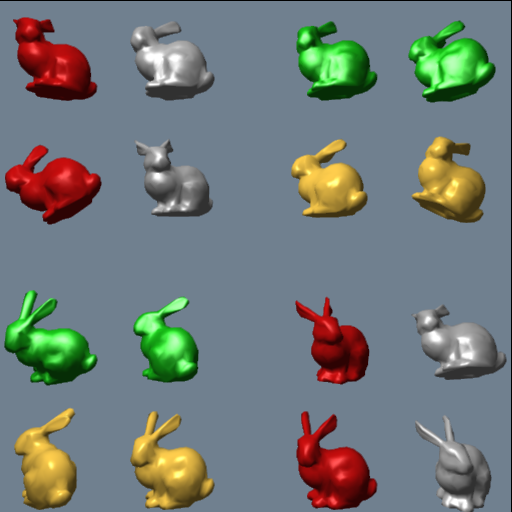
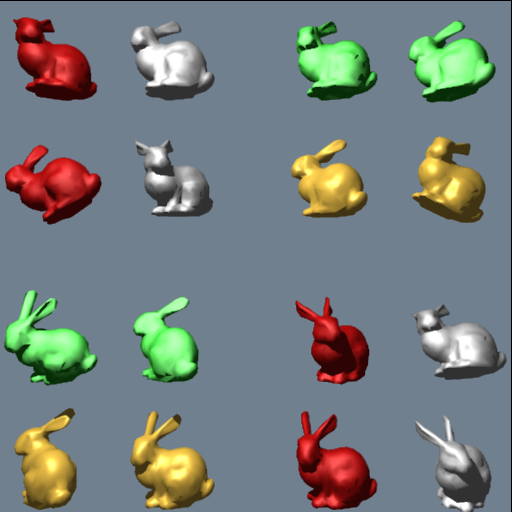
add hall model shading with shadows

diff --git a/src/render/shade.rs b/src/render/shade.rs
@@ -1,22 +1,70 @@
 
-use crate::math::{Vec3, normalize, dot};
+use std::sync::Arc;
+
+use crate::math::{Vec3, Ray, normalize, dot};
 use crate::objects::{Surfel, Material};
 use crate::lights::Light;
 
-use super::ColorRGB;
+use super::{ColorRGB, RayTracer};
 
-pub fn phong_shade(light: &dyn Light, eye: &Vec3, surfel: &Surfel, material: &Material) -> ColorRGB {
+#[allow(dead_code)]
+pub fn phong_shade(lights: &[Arc<dyn Light>], eye: &Vec3, surfel: &Surfel, material: &Material) -> ColorRGB {
+
+    let mut color = ColorRGB::black();
+
+    for light in lights.iter() {
+        let n = surfel.normal;
+        let l = normalize(light.direction_from(surfel.hit_point)); // from P to light
+        let v = normalize(*eye - surfel.hit_point);  // from P to viewer
+        let n_dot_l = dot(n, l).max(0.0_f32);
+        let r = normalize((2.0_f32 * n_dot_l * n) - l);
+        let r_dot_v = dot(r, v).max(0.0_f32);
+
+        let exp = r_dot_v.powf(material.shininess);
+        let il = light.intensity_at(l); // for spot lights
+        let diffuse = il * light.diffuse() * material.kd * material.diffuse * n_dot_l;
+        let specular = il * light.specular() * material.ks * material.specular * exp;
+
+        color += diffuse + specular;
+    }
+    color
+}
+
+pub fn hall_shade(lights: &[Arc<dyn Light>], eye: &Vec3, surfel: &Surfel, material: &Material, tracer: &RayTracer) -> ColorRGB {
+    let mut color = ColorRGB::black();
+
     let n = surfel.normal;
-    let l = normalize(light.direction_from(surfel.hit_point)); // from P to light
-    let v = normalize(*eye - surfel.hit_point);  // from P to viewer
-    let n_dot_l = dot(n, l).max(0.0_f32);
-    let r = normalize((2.0_f32 * n_dot_l * n) - l);
-    let r_dot_v = dot(r, v).max(0.0_f32);
+    let v = normalize(*eye - surfel.hit_point); // from P to viewer
 
-    let exp = r_dot_v.powf(material.shininess);
-    let il = light.intensity_at(l); // for spot lights
-    let diffuse = il * light.diffuse() * material.kd * material.diffuse * n_dot_l;
-    let specular = il * light.specular() * material.ks * material.specular * exp;
+    for light in lights.iter() {
+        let l = normalize(light.direction_from(surfel.hit_point)); // from P to light
+        let mut intensity = light.intensity_at(l); // for spot lights
 
-    diffuse + specular
+        if dot(n, l) > 0.0_f32 {
+            let ray = Ray{origin: surfel.hit_point, direction: l};
+            intensity = tracer.shadow(&ray, intensity);
+        }
+
+        if intensity == 0.0_f32 {
+            continue;
+        }
+        
+        let n_dot_l = dot(n, l).max(0.0_f32);
+        let h = normalize(l + v);
+        let n_dot_h = dot(n, h).max(0.0_f32);
+        let exp = n_dot_h.powf(material.shininess);
+
+        // diffuse reflection from light sources
+        // + kd * Ilj * Cd * cos(theta)
+        // todo texture mapping
+        let diffuse = intensity * light.diffuse() * material.kd * material.diffuse * n_dot_l;
+
+        // specular reflection from light sources
+        // + ks * Ilj * Cs * cos(phi)^n
+        let specular = intensity * light.specular() * material.ks * material.specular * exp;
+
+        color += diffuse + specular;
+    }
+
+    color
 }

diff --git a/src/render/tracer.rs b/src/render/tracer.rs
@@ -1,9 +1,8 @@
-use std::ops::Deref;
 use std::sync::Arc;
 use std::time::{Instant, Duration};
 
 use super::{ColorRGB, XYCoord};
-use super::shade::phong_shade;
+use super::shade::hall_shade;
 
 use crate::scene::{Camera, Scene};
 use crate::math::{Ray, Range};
@@ -123,13 +122,10 @@ impl RayTracer {
 
         match surfel {
             Some(surf) => {
-                let mut color = ColorRGB::black();
                 let material = self.scene.material_for_surfel(&surf);
                 let ambient = self.scene.ambient() * material.ka * material.ambient;
-
-                for light in self.scene.lights().iter() {
-                    color += phong_shade(light.deref(), &self.camera.eye, &surf, material);
-                }
+                //let mut color = phong_shade(self.scene.lights(), &self.camera.eye, &surf, material);
+                let mut color = hall_shade(self.scene.lights(), &self.camera.eye, &surf, material, self);
 
                 color += ambient;
                 color = color.clamp(0.0_f32, 1.0_f32);
@@ -138,5 +134,21 @@ impl RayTracer {
             None => { (self.scene.bgcolor(), false) }
         }
     }
+
+    /// Calculate light intensity due to shadowing
+    pub fn shadow(&self, ray: &Ray, light_intensity: f32) -> f32 {
+        let range = Range{min: 0.001_f32, max: f32::MAX};
+
+        for object in &self.objects {
+            // todo: transmissive materials
+            if object.intersect(ray, range).is_some() {
+                // todo: transmissive materials
+                return 0.0_f32;
+            } 
+        }
+
+        light_intensity
+    }
+
 }
 

diff --git a/README.md b/README.md
@@ -9,9 +9,10 @@ tracer I wrote many years ago in a grad school class where the curriculum was ba
 
 This ray tracer is exteremly basic right now but the following features are included:
 
-* Sphere and simple model rendering
+* Sphere, plane and simple model rendering
 * Bounding volume hiearchy based on axis aligned bounding boxes
-* Phong shading with point and spot light sources
+* Phong/Hall shading with point and spot light sources
+* Shadows
 * Adaptive super sampling (1 - 2x)
 * Parallelized tracing and rendering with rayon
 * Model instancing
@@ -21,6 +22,7 @@ Here are some examples of what it can currently prodcue:
 ![Example 1](docs/scene.png)
 ![Example 2](docs/bunnies.png)
 ![Example 3](docs/cows.png)
+![Example 4](docs/cow2.png)
 
 ## TODO
 
